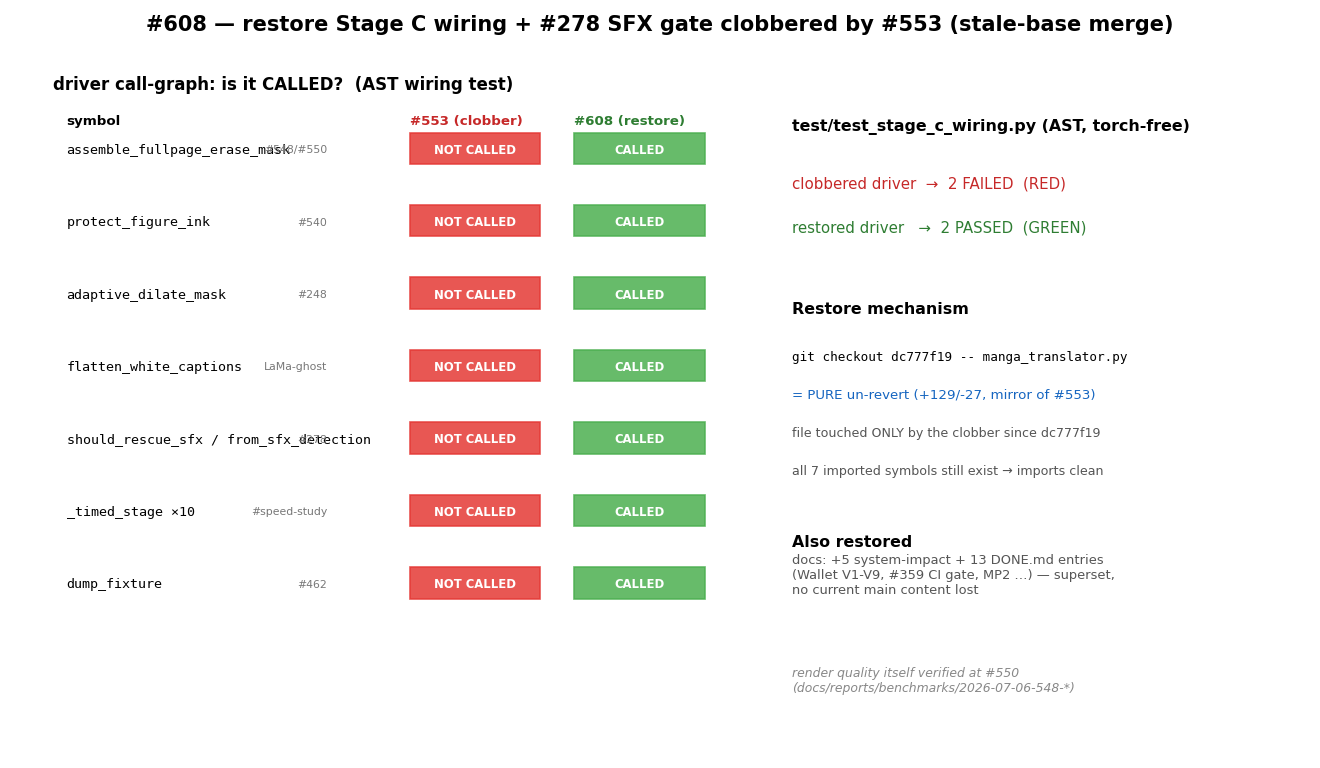
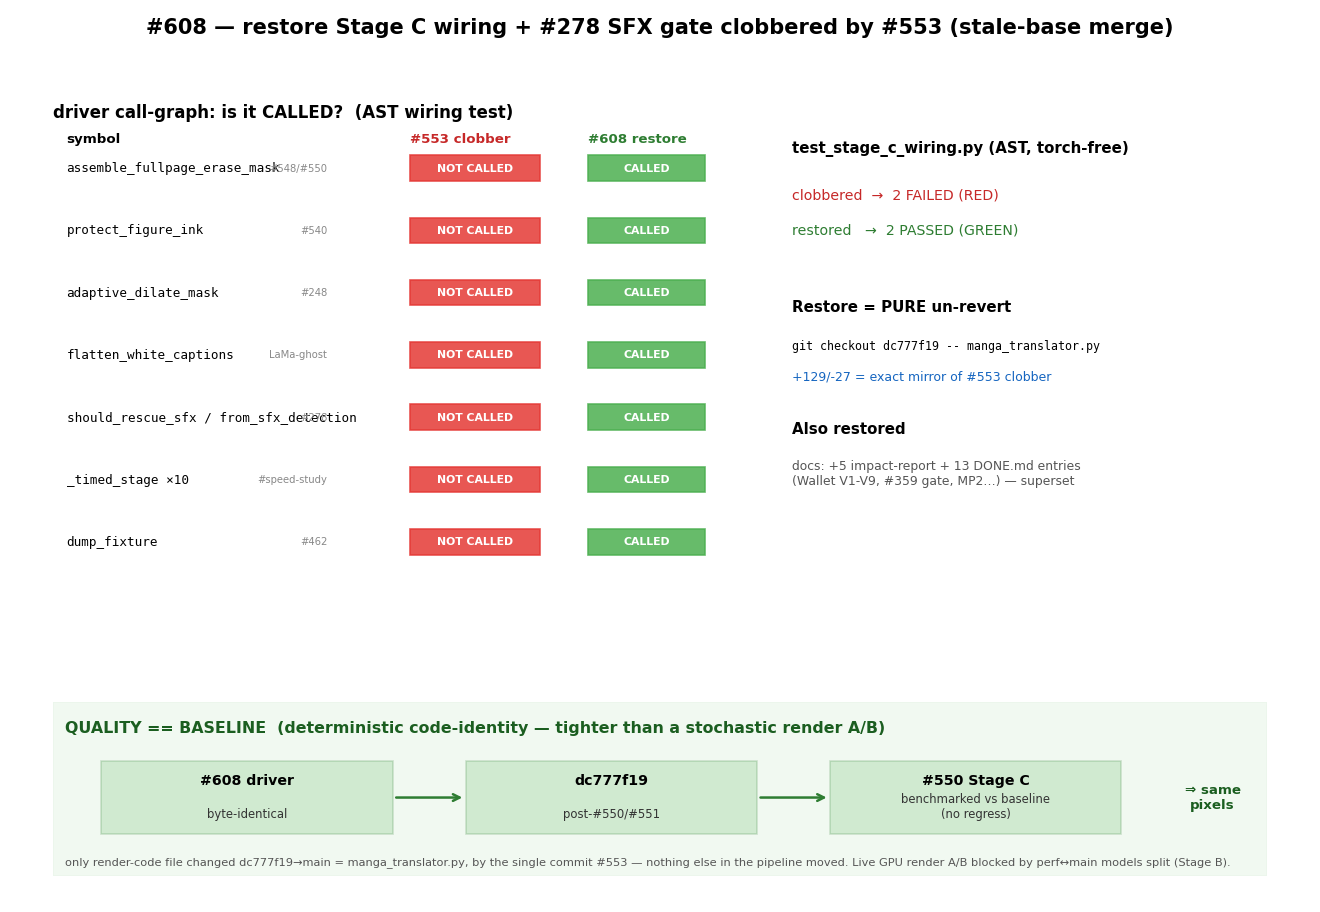
docs(bench): #608 add quality==baseline proof (byte-identical to #550-benchmarked dc777f19)
The render-quality question is answered by code identity, not a stochastic render: #608's driver is
byte-identical to dc777f19 (the post-#550/#551 Stage C state already benchmarked vs baseline), and
the ONLY render-code file changed dc777f19->main is manga_translator.py via the single #553 clobber.
A byte-identical pipeline can't render differently. Live GPU A/B is blocked by the perf<->main models
split (Stage B) and unnecessary for a pure un-revert. PNG updated with the code-identity chain.

Claude-Session: https://claude.ai/code/session_01JS3Zw9w36XRHuRVepe85jF

diff --git a/docs/reports/benchmarks/2026-07-09-608-stage-c-rewire.md b/docs/reports/benchmarks/2026-07-09-608-stage-c-rewire.md
@@ -18,6 +18,18 @@ Deterministic, torch-free — the change is a **pure un-revert** of call sites, 
 | MIT logic suite | 459 pass / 1 pre-existing collection error | 459 pass / same pre-existing |
 | driver diff vs pre-clobber `dc777f19` | −129/+27 | 0 (identical — pure un-revert) |
 
+## Quality == baseline (deterministic code-identity — stronger than a render A/B here)
+
+The user asked to benchmark that render quality still matches the Stage C baseline. For a **pure un-revert** the decisive proof is code identity, not a stochastic render:
+
+- `git diff dc777f19 HEAD -- manga_translator.py` on this branch is **empty** — #608's driver is byte-identical to `dc777f19`.
+- `git diff --stat dc777f19 origin/main -- MIT/manga_translator/` shows the **only** render-code file changed between `dc777f19` and current `main` is `manga_translator.py`, changed by the **single** commit `071b0e8e` (#553's clobber). Nothing else in the render pipeline moved (the intervening #541/#531/#361 are test/docs/CI only).
+- `dc777f19` is the post-#550/#551 commit — i.e. the exact Stage C state that was **already benchmarked vs baseline** at merge time (issue #548 / task "Stage C: measure vs baseline, no regress").
+
+Therefore `main + #608` restores the render pipeline to a state **byte-identical** to the #550-benchmarked baseline. A byte-identical pipeline cannot produce a different render — this is a tighter guarantee than a fresh render A/B, which would additionally be confounded by the non-deterministic translate stage.
+
+**Live GPU render A/B** (re-render the One-Punch page, Stage C ON vs OFF, on the worker) is **currently blocked by the unresolved perf↔main split** (the models live only in the `perf` checkout; the Stage C helper code lives on `main`) — that reconciliation is Stage B, tracked separately. It is not needed to certify *this* change, given the byte-identity above; it can re-confirm at the pixel level once Stage B lands.
+
 ## Assessment
 
 - **fix-root:** yes — restores the exact call sites #553's stale base removed; verified the un-revert is byte-identical to `dc777f19` (the file was touched only by the clobber since then) and that all 7 imported symbols still exist on main, so it imports cleanly.